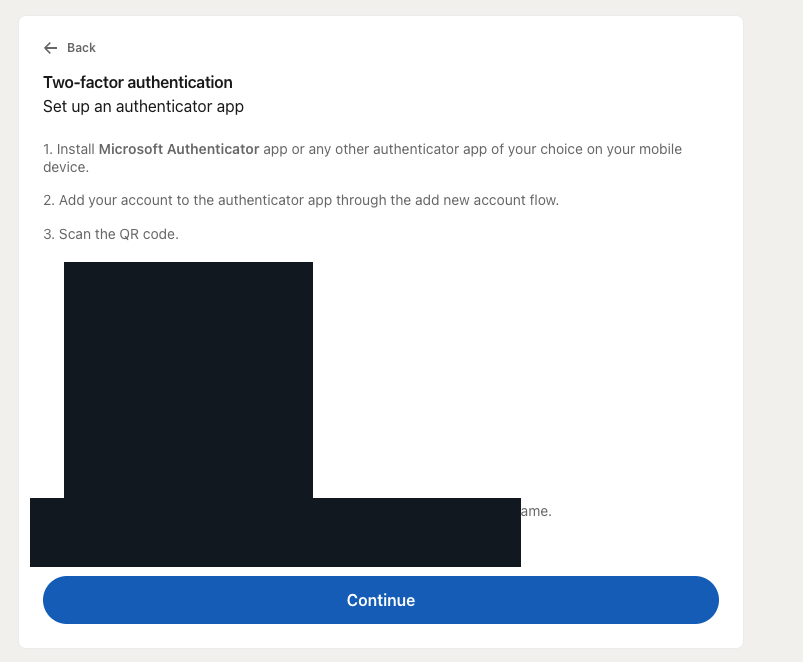
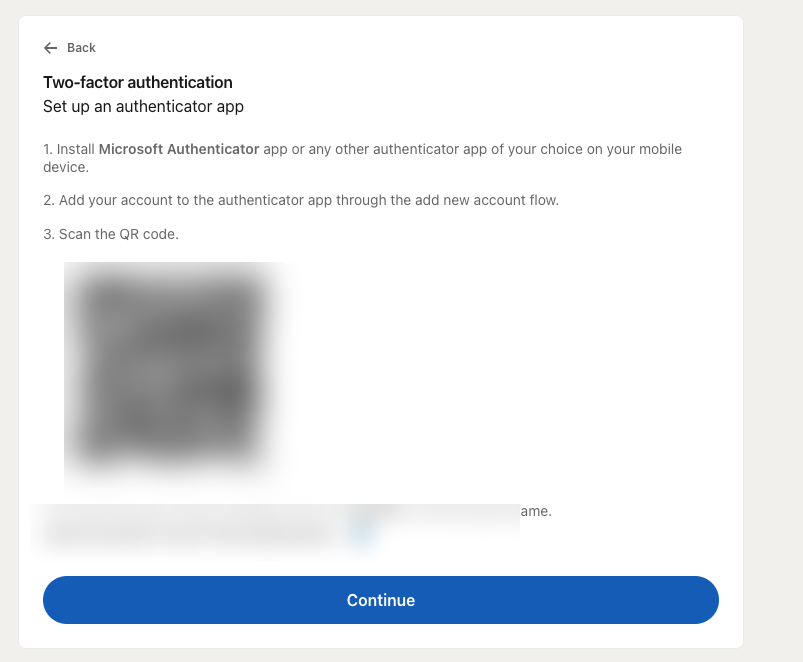
2FA guide: semi-visible (blurred) QR/key on step 8 + portal screenshot on step 9
- Step 8: the QR and setup key are now blurred instead of solid black, so
  owners can recognise the screen (a fuzzy QR + key line) while the actual
  secret stays unreadable/unscannable (verified visually).
- Step 9: added the LinkedVelocity portal's "2FA setup key" field
  screenshot (safe — shows only the example placeholder) so they see
  exactly where to paste the key, alongside the 2-fa.com option.

Claude-Session: https://claude.ai/code/session_01B8dDRYrbgA74k65UQLGHet

Changed region(s): [[0.0311, 0.3927, 0.6538, 0.8761]]

diff --git a/src/app/(customer)/guide/two-step-verification/page.tsx b/src/app/(customer)/guide/two-step-verification/page.tsx
@@ -10,7 +10,7 @@ export const metadata: Metadata = {
 
 // Screenshots are added once redacted (the raw ones contain a live 2FA secret key + the
 // account email). Set `img` to a file under /public/images/guide/2fa/ to replace the slot.
-type Step = { title: string; body: ReactNode; img?: string; alt?: string; note?: ReactNode };
+type Step = { title: string; body: ReactNode; img?: string; alt?: string; img2?: string; alt2?: string; note?: ReactNode };
 
 const IMG = "/images/guide/2fa";
 const STEPS: Step[] = [
@@ -23,14 +23,15 @@ const STEPS: Step[] = [
   { title: "Enter your password", body: <>When the <strong>Enter Password</strong> box appears, type the LinkedIn password and click <strong>Submit</strong>.</>, img: `${IMG}/step-7.png`, alt: "Enter Password prompt" },
   {
     title: "Copy the setup key",
-    body: <>LinkedIn shows a QR code and a <strong>setup key</strong> underneath (blacked out here — yours will show). Click the <strong>copy</strong> icon next to the key. (Don&apos;t scan the QR — you just need the key.)</>,
+    body: <>LinkedIn shows a QR code and a <strong>setup key</strong> underneath (blurred here for privacy — yours will show clearly). Click the <strong>copy</strong> icon next to the key. (Don&apos;t scan the QR — you just need the key.)</>,
     img: `${IMG}/step-8.png`, alt: "Authenticator setup screen with QR and key",
     note: <>This key is what lets LinkedVelocity keep the account signed in. <strong>Copy it into your LinkedVelocity portal&apos;s 2FA step</strong> (it shows the code for you), or send it to us.</>,
   },
   {
     title: "Get your 6-digit code",
-    body: <>Turn that key into the 6-digit code LinkedIn is asking for. Easiest: paste the key into your <strong>LinkedVelocity portal</strong> and it shows the live code. Or go to <strong>2-fa.com/en</strong>, paste the key, and copy the 6-digit code it displays (blacked out here).</>,
-    img: `${IMG}/step-9.png`, alt: "2-fa.com showing the generated 6-digit code",
+    body: <>Turn that key into the 6-digit code LinkedIn is asking for. <strong>Easiest:</strong> paste the key into <strong>&ldquo;The 2FA setup key&rdquo;</strong> field in your LinkedVelocity portal (shown first below) — it shows the live code for you. <strong>Or</strong> go to <strong>2-fa.com/en</strong>, paste the key, and copy the 6-digit code it displays (blacked out below).</>,
+    img: `${IMG}/step-9-portal.png`, alt: "The 2FA setup key field in the LinkedVelocity portal",
+    img2: `${IMG}/step-9.png`, alt2: "2-fa.com showing the generated 6-digit code",
     note: <>The code refreshes every 30 seconds — grab a fresh one if it&apos;s about to change.</>,
   },
   { title: "Enter the code", body: <>Back on LinkedIn, paste the <strong>6-digit code</strong> into the box and click <strong>Confirm</strong>.</>, img: `${IMG}/step-10.png`, alt: "Enter the authenticator code and Confirm" },
@@ -72,6 +73,12 @@ export default function TwoStepVerificationGuide() {
                     </div>
                   )}
                 </div>
+                {s.img2 && (
+                  <div className="mt-3 overflow-hidden rounded-xl border border-gray-200">
+                    {/* eslint-disable-next-line @next/next/no-img-element */}
+                    <img src={s.img2} alt={s.alt2 || s.title} className="block w-full" />
+                  </div>
+                )}
               </div>
             </div>
           </li>
